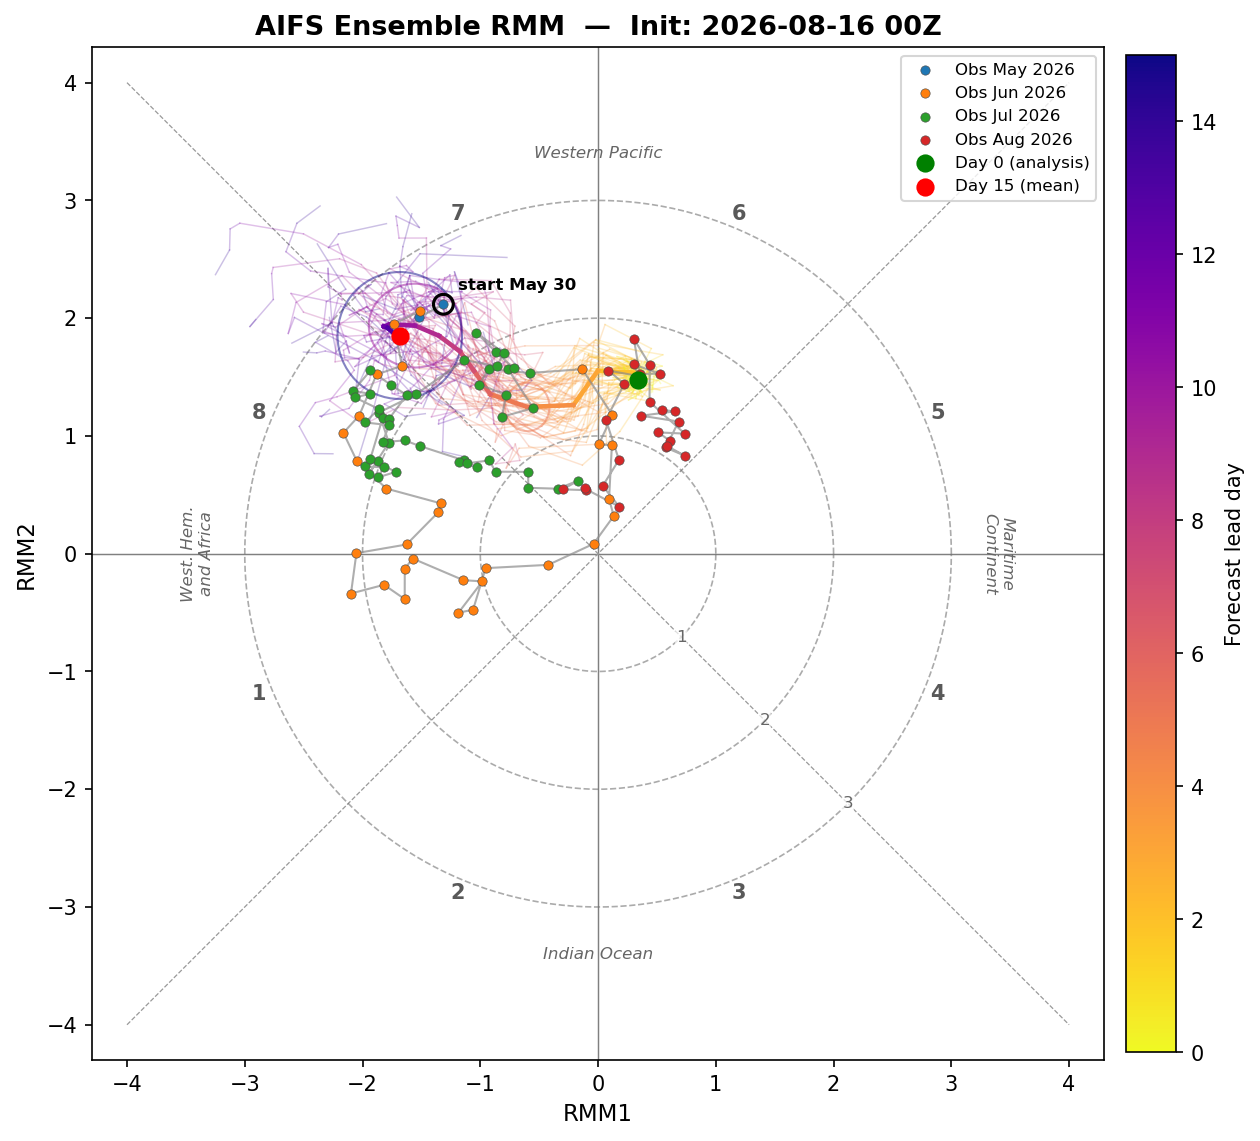
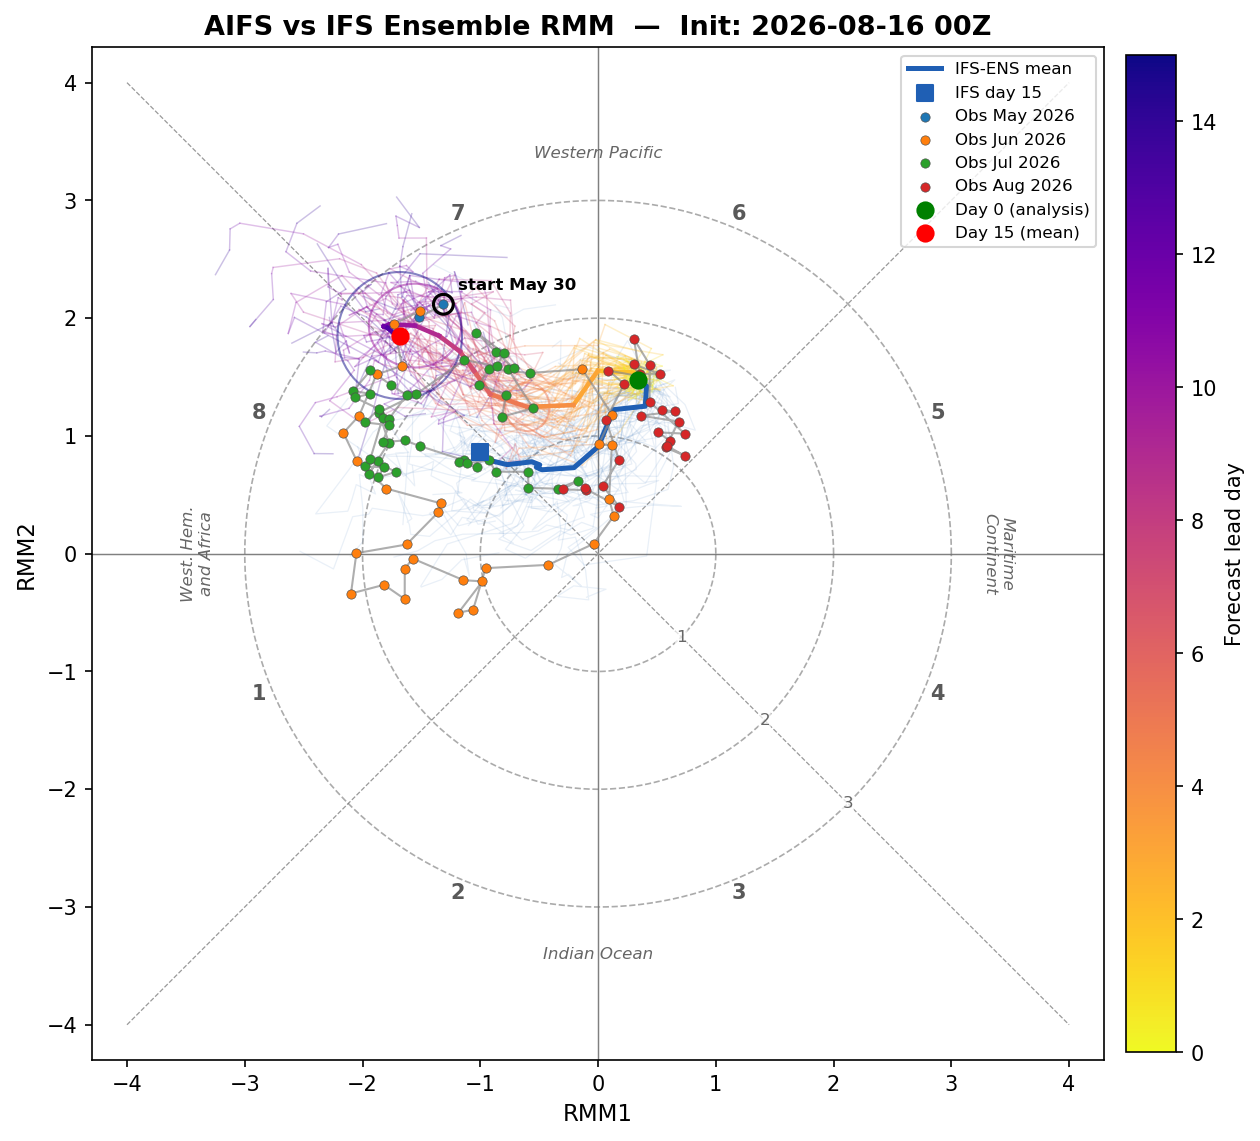
MJO: IFS-ENS forecasts overlaid on the AIFS RMM plot (identical machinery)
download_ifs(): IFS-ENS pf u@850/200 + tp via the shared store (pf ONLY —
the 0.25-deg enfo open data serves no separate cf through this path,
verified; 50 perturbed members suffice). compute_rmm gains a model=
parameter and skips absent member files; the IFS ensemble runs through
the exact same clim/filter/EOF/pc_std path incl. the precip pseudo-OLR.
plot_rmm draws IFS as a faint blue member haze + bold blue mean with a
day-15 square; title becomes 'AIFS vs IFS Ensemble RMM'. IFS lags AIFS
~1-2 h: a plots/<stem>.png.missing sidecar makes the hourly poll re-enter
stage 1 (AIFS cached, only the IFS fetch repeats) until it lands, wired
into the existing IFS self-heal condition. First cycle (20260816 00Z):
AIFS amplifies through phase 7 to ~2.5 by day 15; IFS decays to ~1.3 —
exactly the model disagreement this overlay exists to show.

Changed region(s): [[0.1548, 0.0, 0.8667, 0.2147], [0.3714, 0.3374, 0.5262, 0.4601]]

diff --git a/mjo.html b/mjo.html
@@ -77,12 +77,15 @@
   Wheeler &amp; Hendon (2004). Full three-channel projection: U850/U200 plus a
   pseudo-OLR channel built from &minus;standardized tropical precipitation (tropical
   rain and OLR anticorrelate closely); falls back to wind-only if precip is
-  unavailable for a cycle. Amplitude is the radial distance (rings at 1, 2, 3).
+  unavailable for a cycle. The physics-based <strong>IFS-ENS</strong> (50 members)
+  is overlaid in blue through the <em>identical</em> machinery whenever its data
+  has landed — a direct AI-vs-physics comparison in the same coordinates.
+  Amplitude is the radial distance (rings at 1, 2, 3).
   Observed track is recent ERA5/AIFS analysis (wind-only, verified within a few
   degrees of the official BoM RMM phase).</p>
     <p class="lede" style="margin:0.5rem 0 1.2rem">Latest init: <strong>2026-08-16 00Z</strong>. Drag the slider to step through successive forecast runs (oldest → latest) and watch the predicted MJO track evolve.</p>
   <iframe class="anim-embed" src="sst_anim.html?embed=1&amp;base=assets&amp;manifest=mjo/rmm_manifest.json&amp;region=mjo" title="AIFS-ENS RMM forecast — successive runs animation" loading="lazy"></iframe>
-  <p class="meta">Updated 2026-08-16 12:00Z · Auto-generated from the AIFS-ENS open-data
+  <p class="meta">Updated 2026-08-16 14:20Z · Auto-generated from the AIFS-ENS open-data
   feed. Methodology: NOAA CPC / Wheeler &amp; Hendon (2004), EOFs from NOAA OLR +
   NCEP wind with the 120-day low-frequency filter removed; pseudo-OLR from
   &minus;standardized daily precip vs an ERA5 1991&ndash;2020 band climatology.</p>

diff --git a/scripts/mjo/src/download_aifs.py b/scripts/mjo/src/download_aifs.py
@@ -343,6 +343,53 @@ def download(date: str, time: str, out_dir: Path) -> None:
     print("Download complete.")
 
 
+def download_ifs(date: str, time: str, out_dir: Path) -> bool:
+    """Fetch IFS-ENS u@850/200 + tp for the RMM comparison overlay.
+
+    IFS-ENS is disseminated ~1-2 h AFTER AIFS-ENS, so this is best-effort:
+    returns True only when both wind files landed (tp stays optional — the
+    RMM falls back to wind-only per model). The caller re-tries on later
+    polls via the plots/<stem>.png.missing sidecar."""
+    out_dir.mkdir(parents=True, exist_ok=True)
+    stem = f"ifs_{date}_{time}z"
+    cyc = ecmwf.Cycle(date, time)
+    steps = tuple(rmm_steps(time))
+    # pf ONLY: IFS 0.25-deg enfo open data serves no separate cf through this
+    # path (the -enfo-cf index 404s and the client finds no cf entries;
+    # verified 2026-08-16) — 50 perturbed members are ample for the overlay.
+    ok = True
+    try:
+        src = ecmwf.ensure(cyc, ecmwf.Spec("ifs", "pf", "u", "pl",
+                                           ecmwf.LEVELS_RMM, steps))
+        dst = out_dir / f"{stem}.pf.u.grib2"
+        if dst.exists():
+            dst.unlink()
+        try:
+            os.link(src, dst)
+        except OSError:
+            shutil.copy2(src, dst)
+        print(f"  IFS pf u-wind: {dst.name}")
+    except Exception as e:                          # noqa: BLE001
+        print(f"  IFS pf u unavailable ({repr(e)[:60]})")
+        ok = False
+    if ok:
+        try:
+            tp_steps = tuple(s for s in steps if s > 0)
+            src = ecmwf.ensure(cyc, ecmwf.Spec("ifs", "pf", "tp", "sfc", (), tp_steps))
+            dst = out_dir / f"{stem}.pf.tp.grib2"
+            if dst.exists():
+                dst.unlink()
+            try:
+                os.link(src, dst)
+            except OSError:
+                shutil.copy2(src, dst)
+            print(f"  IFS pf tp: {dst.name}")
+        except Exception as e:                      # noqa: BLE001
+            print(f"  IFS pf tp unavailable ({repr(e)[:60]}) — wind-only")
+    return ok
+
+
+
 def main() -> None:
     parser = argparse.ArgumentParser()
     parser.add_argument("--date", default=None, help="YYYYMMDD (default: latest available)")

diff --git a/scripts/mjo/run_rmm.py b/scripts/mjo/run_rmm.py
@@ -20,7 +20,7 @@ from pathlib import Path
 
 sys.path.insert(0, str(Path(__file__).parent / "src"))
 
-from download_aifs import download
+from download_aifs import download, download_ifs
 from rmm import compute_rmm
 from plot import plot_rmm
 import recent_analysis
@@ -101,6 +101,23 @@ def main() -> None:
     rmm_path = Path("data/aifs") / f"rmm_{args.date}_{args.time}z.nc"
     rmm.to_netcdf(rmm_path)
 
+    # 2c. IFS-ENS through the IDENTICAL machinery — the physics-model reference
+    # for the AI forecast (also a methodology cross-check against other vendors).
+    # Best-effort: IFS disseminates ~1-2 h after AIFS; when absent the sidecar
+    # below tells the hourly poll to re-run this stage until it lands.
+    rmm_ifs = None
+    try:
+        if download_ifs(args.date, args.time, Path("data/aifs")):
+            print("Computing IFS RMM …")
+            rmm_ifs = compute_rmm(Path("data/aifs"), args.date, args.time,
+                                  clim, eofs, mean120=mean120,
+                                  prcp_clim=prcp_clim, model="ifs")
+            print(f"  IFS channels: {rmm_ifs.attrs.get('channels')}")
+            rmm_ifs.to_netcdf(Path("data/aifs") / f"rmm_ifs_{args.date}_{args.time}z.nc")
+    except Exception as e:                          # noqa: BLE001
+        print(f"IFS RMM leg failed ({repr(e)[:80]}); plotting AIFS only")
+        rmm_ifs = None
+
     # 3. Extend the observed history with today's AIFS analysis (control, earliest
     #    lead). lead_day 0 if step 0 was downloaded, else the first forecast day —
     #    .isel keeps this robust to the daily-vs-6-hourly step choice.
@@ -111,7 +128,12 @@ def main() -> None:
     # 4. Plot
     Path(args.out_dir).mkdir(parents=True, exist_ok=True)
     out_png = Path(args.out_dir) / f"rmm_{args.date}_{args.time}z.png"
-    plot_rmm(rmm, obs=obs, out_path=out_png)
+    plot_rmm(rmm, obs=obs, out_path=out_png, ifs=rmm_ifs)
+    miss = Path(str(out_png) + ".missing")
+    if rmm_ifs is None:
+        miss.write_text("ifs\n")
+    elif miss.exists():
+        miss.unlink()
 
 
 if __name__ == "__main__":

diff --git a/scripts/mjo/src/plot.py b/scripts/mjo/src/plot.py
@@ -97,6 +97,7 @@ def plot_rmm(
     rmm: xr.Dataset,
     obs: xr.Dataset | None = None,
     out_path: Path | None = None,
+    ifs: xr.Dataset | None = None,
 ) -> plt.Figure:
     date  = rmm.attrs.get("init_date", "")
     rtime = rmm.attrs.get("init_time", "00")
@@ -111,8 +112,9 @@ def plot_rmm(
     n_leads = len(lead_days)
 
     fig, ax = plt.subplots(figsize=(8.5, 8.5))
+    ttl = "AIFS vs IFS Ensemble RMM" if ifs is not None else "AIFS Ensemble RMM"
     ax.set_title(
-        f"AIFS Ensemble RMM  —  Init: {date[:4]}-{date[4:6]}-{date[6:8]} {rtime}Z",
+        f"{ttl}  —  Init: {date[:4]}-{date[4:6]}-{date[6:8]} {rtime}Z",
         fontsize=13, fontweight="bold",
     )
 
@@ -158,6 +160,24 @@ def plot_rmm(
             alpha=0.5, lw=1, zorder=3,
         )
         ax.add_patch(ell)
+
+    # IFS-ENS overlay: the SAME machinery applied to the physics model —
+    # members as a faint blue haze, ensemble mean as one bold blue line
+    # (day-0 pinned to its control, mirroring the AIFS mean above).
+    if ifs is not None:
+        i1 = ifs["rmm1"].values
+        i2 = ifs["rmm2"].values
+        for m in range(i1.shape[0]):
+            ax.plot(i1[m], i2[m], color="#2b6cb8", alpha=0.10, lw=0.6, zorder=1)
+        im1 = i1.mean(axis=0)
+        im2 = i2.mean(axis=0)
+        imem = [str(x) for x in ifs["member"].values]
+        icf = imem.index("cf") if "cf" in imem else 0
+        im1[0], im2[0] = i1[icf, 0], i2[icf, 0]
+        ax.plot(im1, im2, color="#1f5fb4", lw=2.4, zorder=4,
+                label="IFS-ENS mean")
+        ax.scatter(im1[-1], im2[-1], marker="s", c="#1f5fb4", s=55, zorder=7,
+                   label=f"IFS day {int(ifs['lead_day'].values[-1])}")
 
     # Observed history (AIFS analysis archive): faint connecting line, points
     # coloured by calendar month, with the start date marked and labelled.

diff --git a/scripts/mjo/src/rmm.py b/scripts/mjo/src/rmm.py
@@ -108,6 +108,7 @@ def compute_rmm(
     eofs: xr.Dataset,
     mean120: dict[str, np.ndarray] | None = None,
     prcp_clim: xr.Dataset | None = None,
+    model: str = "aifs",
 ) -> xr.Dataset:
     """Project the AIFS ensemble onto the wind portions of the reference EOFs.
 
@@ -124,7 +125,7 @@ def compute_rmm(
     (normalized by pc_std); rmm1_wind/rmm2_wind keep the wind-only values
     (obs_history stays wind-only). Missing tp → wind-only everywhere.
     """
-    stem = f"aifs_{date}_{run_time}z"
+    stem = f"{model}_{date}_{run_time}z"
 
     pf_path = aifs_dir / f"{stem}.pf.u.grib2"
     cf_path = aifs_dir / f"{stem}.cf.u.grib2"
@@ -154,6 +155,9 @@ def compute_rmm(
     init_dt = pd.Timestamp(f"{date[:4]}-{date[4:6]}-{date[6:8]}T{run_time}:00")
 
     for label, u_path in [("cf", cf_path), ("pf", pf_path)]:
+        if not u_path.exists():
+            print(f"  {label} winds missing for {stem} — skipped")
+            continue
         print(f"  Processing {label} …")
 
         u850, u200 = load_aifs_uwnd(u_path)
@@ -256,6 +260,8 @@ def compute_rmm(
                 rmm2_members.append(r2w)
             member_ids.append(mem_id)
 
+    if not member_ids:
+        raise FileNotFoundError(f"no wind GRIBs found for {stem}")
     full = have_prcp and prcp_clim is not None
     if not full:                       # any tp gap → wind-only for EVERY member
         rmm1_members, rmm2_members = rmm1w_members, rmm2w_members
@@ -270,6 +276,7 @@ def compute_rmm(
         attrs={
             "init_date": date,
             "init_time": run_time,
+            "model": model,
             "channels": "u850+u200+prcp-olr" if full else "u850+u200",
             "note": ("Full WH04 RMM: winds + pseudo-OLR from -(standardized "
                      "daily tp anomaly vs ERA5 1991-2020 band climatology)"

diff --git a/scripts/mjo/generate_page.py b/scripts/mjo/generate_page.py
@@ -146,7 +146,10 @@ def main():
   Wheeler &amp; Hendon (2004). Full three-channel projection: U850/U200 plus a
   pseudo-OLR channel built from &minus;standardized tropical precipitation (tropical
   rain and OLR anticorrelate closely); falls back to wind-only if precip is
-  unavailable for a cycle. Amplitude is the radial distance (rings at 1, 2, 3).
+  unavailable for a cycle. The physics-based <strong>IFS-ENS</strong> (50 members)
+  is overlaid in blue through the <em>identical</em> machinery whenever its data
+  has landed — a direct AI-vs-physics comparison in the same coordinates.
+  Amplitude is the radial distance (rings at 1, 2, 3).
   Observed track is recent ERA5/AIFS analysis (wind-only, verified within a few
   degrees of the official BoM RMM phase).</p>
   {body}
